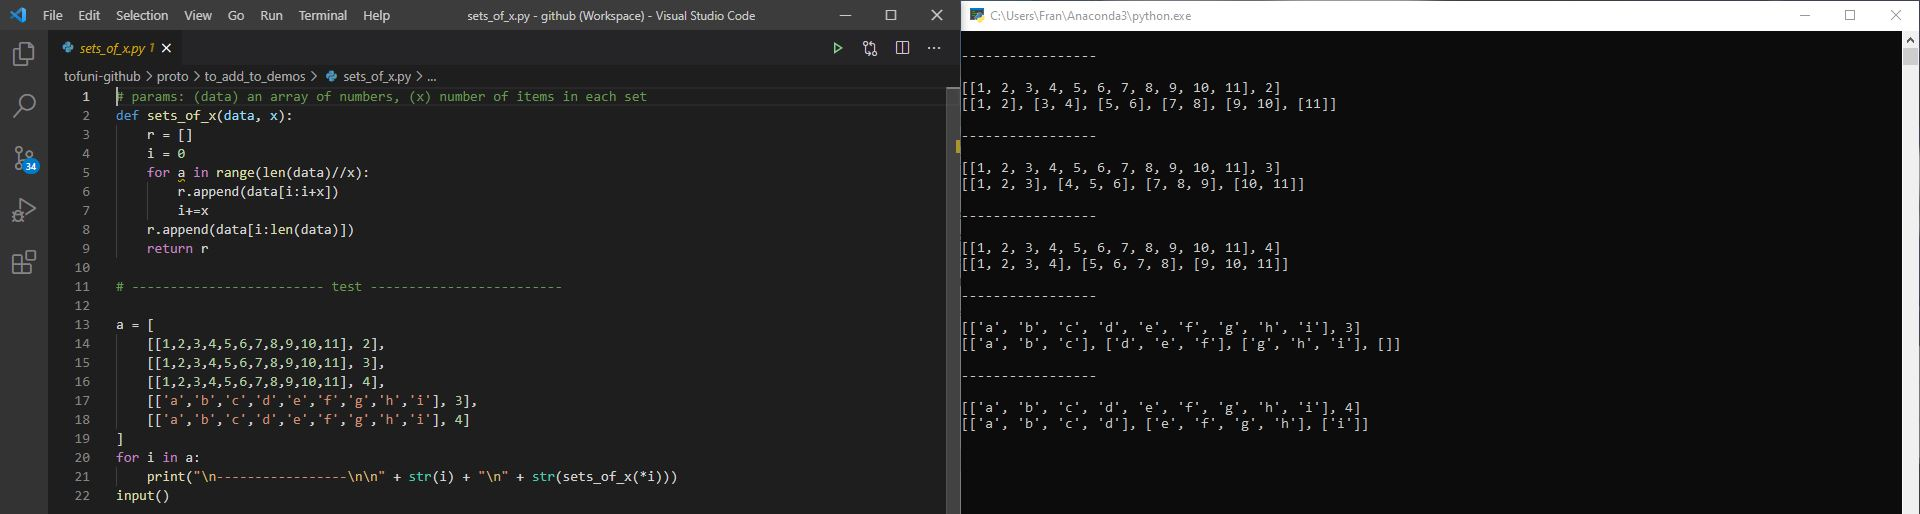
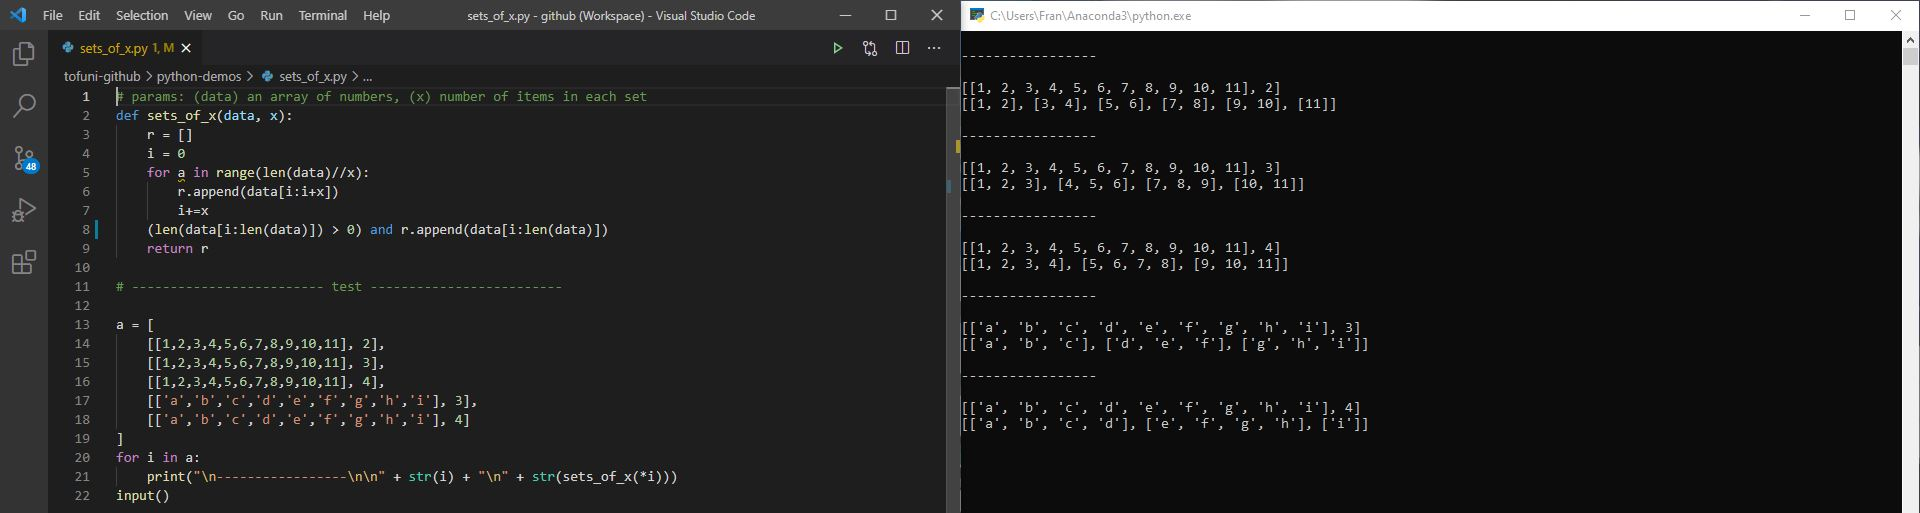
sets_of_x - if no remainder, skip appending list

diff --git a/sets_of_x.py b/sets_of_x.py
@@ -5,7 +5,7 @@ def sets_of_x(data, x):
     for a in range(len(data)//x):
         r.append(data[i:i+x])
         i+=x
-    r.append(data[i:len(data)])
+    (len(data[i:len(data)]) > 0) and r.append(data[i:len(data)])
     return r
 
 # ------------------------- test -------------------------
